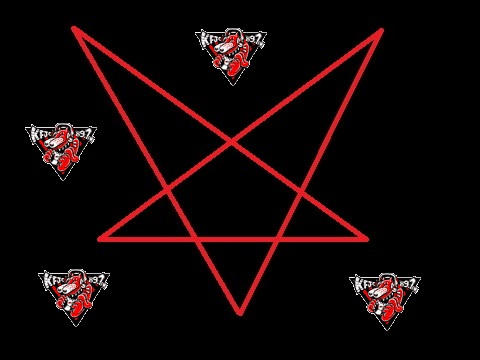
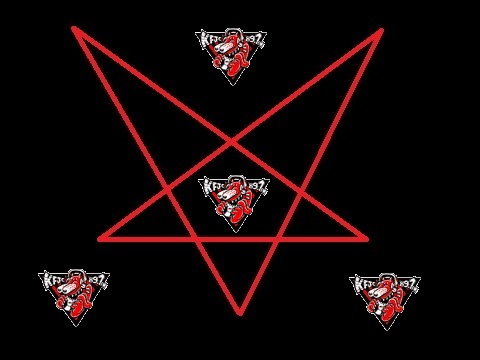
mostly functional except win/loss

Changed region(s): [[0.0625, 0.3361, 0.2188, 0.4889], [0.4062, 0.4889, 0.5625, 0.6417]]

diff --git a/assets/javascript/game.js b/assets/javascript/game.js
@@ -2,7 +2,10 @@
 var wordBank = ['MEPHISTO', 'AESHMA', 'BEELZEBUB', 'BELPHEGOR', 'LEVIATHAN', 'MOLOCH', 'PANZUZU', 'VASSAFOR', 'SATHANAS', 'DIABLO'];
 var secretWord = wordBank[Math.floor(Math.random()*10)];
 var displayWord = "";
-var invalidKeys = ['1','2','3','4','5','6','7','8','9','0',"'",'/','[',']',',', '.','-','=',';','`']
+var invalidKeys = ['1','2','3','4','5','6','7','8','9','0',"'",'/','[',']',',', '.','-','=',';','`','\\'];
+var lettersGuessed = [];
+var lordsBanished = 0;
+var soulsLost = 0;
 
 while (displayWord.length < secretWord.length) {
     displayWord += '-'
@@ -12,9 +15,9 @@ while (displayWord.length < secretWord.length) {
 String.prototype.replaceAt=function(index, replacement) {
     return this.substr(0, index) + replacement+ this.substr(index + replacement.length);
 }
-function imgProgress(imgSrc) {
-    let currentJpg = imgSrc[23];
-    imgSrc.toString().replaceAt(23, (currentJpg+1).toString())
+function gameReset() {
+    lettersGuessed = [];
+
 }
 
 //HANGMAN LINE SETUP
@@ -43,12 +46,23 @@ document.onkeypress = function(event) {
             }
         };
         document.getElementById("hangmanLine").innerHTML = displayWord;
+        if (displayWord === secretWord) {
+            //GAME WIN
+
+        }
     } else if (invalidKeys.includes(keyPressed)) {
         //KEY PRESSED ISN'T A LETTER
         alert('The Lords of Hell do not concern themselves with numbers and punctuation.');
     } else {
         //KEY PRESSED IS A MISS
-        document.getElementById('pentagramStatus').src='assets/images/pentagram1.jpg'
+        if (!lettersGuessed.includes(keyPressed)) {
+            lettersGuessed.push(keyPressed);
+            document.getElementById('pentagramStatus').src = ('assets/images/pentagram'+ lettersGuessed.length + '.jpg');
+        }
+        if (lettersGuessed.length == 10) {
+            //GAME LOSS
+        }
+        document.querySelector("#displayGuesses").textContent = lettersGuessed;
     };
 };
 

diff --git a/index.html b/index.html
@@ -39,11 +39,15 @@
                 <img id="pentagramStatus" src="assets/images/pentagram0.jpg"/>
             </div>
         </div>
+        <div class="row guessbox col-md-12">
+            <p class="guessrow">Letters Guessed: <span id="displayGuesses"></span></p>
+        </div>
     </div>
 
 
     <script src="assets/javascript/game.js"></script>
 
+    <div class="hiddenVid"><iframe width="560" height="315" src="https://www.youtube.com/embed/oCUMIp5Eatw?start=9&autoplay=1" frameborder="0" allow="autoplay; encrypted-media" allowfullscreen></iframe></div>
 
 </body>
 

diff --git a/assets/css/style.css b/assets/css/style.css
@@ -58,6 +58,22 @@ h1 {
     width: 100%;
 }
 
+.guessbox {
+    border: 3px solid white;
+    background: rgba(204, 39, 39, 0.66);
+    margin-top: 10px;
+    text-align: center;
+    width: 100%;
+}
+
+#displayGuesses {
+    letter-spacing: 2px;
+}
+
+.hiddenVid {
+    display: none;
+}
+
 #imperative {
     -webkit-animation-name: blinker;
     -webkit-animation-duration: 1s;
